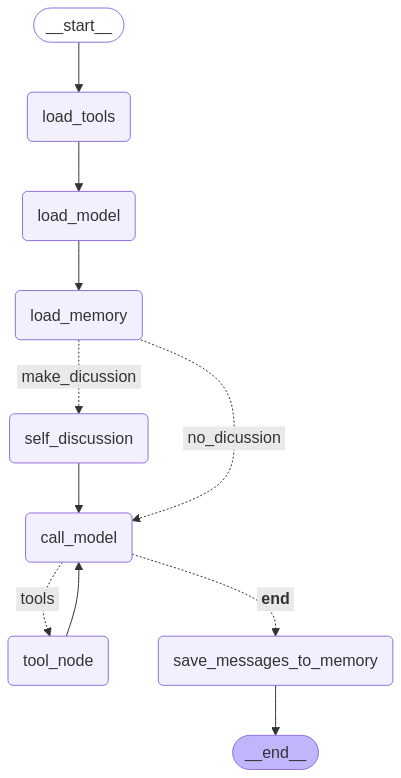
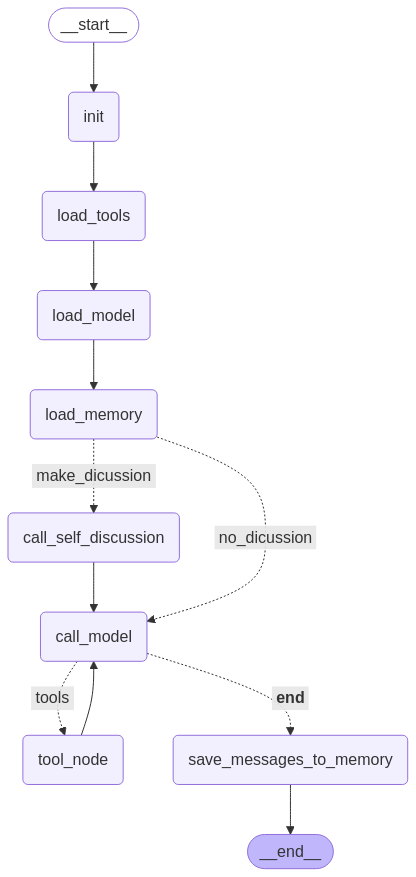
s

diff --git a/workflow_graphs/bujji/workflow.py b/workflow_graphs/bujji/workflow.py
@@ -1,13 +1,14 @@
 from langgraph.graph import StateGraph, START, END
 from langgraph.prebuilt import tools_condition
 from .schemas import WorkFlowState
-from .nodes import load_tools, load_model, load_memory, call_self_discussion, call_model, tool_node, save_messages_to_memory
+from .nodes import init_node, load_tools, load_model, load_memory, call_self_discussion, call_model, tool_node, save_messages_to_memory
 
 
 
 
 workflow = StateGraph(WorkFlowState)
 
+workflow.add_node('init', init_node)
 workflow.add_node('load_tools', load_tools)
 workflow.add_node('load_model', load_model)
 workflow.add_node('load_memory', load_memory)
@@ -16,9 +17,10 @@ workflow.add_node('call_model', call_model)
 workflow.add_node('tool_node', tool_node)
 workflow.add_node('save_messages_to_memory', save_messages_to_memory)
 
-workflow.set_entry_point('load_tools')
+workflow.set_entry_point('init')
 workflow.set_finish_point('save_messages_to_memory')
 
+workflow.add_edge('init', 'load_tools')
 workflow.add_edge('load_tools', 'load_model')
 workflow.add_edge('load_model', 'load_memory')
 workflow.add_edge('call_self_discussion', 'call_model')
@@ -30,8 +32,8 @@ workflow.add_conditional_edges('call_model', tools_condition, {'tools' : 'tool_n
 
 graph = workflow.compile()
 
-# # Visualize your graph
-# graph_png = graph.get_graph(xray=True).draw_mermaid_png()
-# image_file = "WorkFlow Graph.png"
-# with open(image_file, "wb") as file:
-#     file.write(graph_png)
+# Visualize your graph
+graph_png = graph.get_graph(xray=True).draw_mermaid_png()
+image_file = "WorkFlow Graph.png"
+with open(image_file, "wb") as file:
+    file.write(graph_png)

diff --git a/workflow_graphs/bujji/nodes.py b/workflow_graphs/bujji/nodes.py
@@ -18,6 +18,18 @@ def green_log(message: str):
     logging.info(f"{green}{message}{reset}")
 
 
+def init_node(state: WorkFlowState):
+    _verbose = state['_verbose']
+    if _verbose:
+        green_log("🚀 Starting workflow")
+    user_query = HumanMessage(content=state['user_query'])
+    
+    return {
+        'messages' : [user_query],
+        'new_messages' : [user_query],
+    }
+    
+
 def load_tools(state : WorkFlowState):
     _verbose = state['_verbose']
     if _verbose:
@@ -56,13 +68,10 @@ def load_memory(state: WorkFlowState):
     pre_tools = state['pre_tools']
     memory : Memory = Memory.get_memory(conversation_id, user_id, 7000, model, True, False, 'human')
     system_prompt = SystemMessage(content=SYSTEM_PROMPT.format(response_mode = response_mode, pre_tools = pre_tools))
-    user_query = HumanMessage(content=state['user_query'])
     
     memory_messages = [system_prompt, *memory.messages]
     return {
         'memory' : memory,
-        'messages' : [user_query],
-        'new_messages' : [user_query],
         'memory_messages' : memory_messages
     }
     

diff --git a/chats_app/views.py b/chats_app/views.py
@@ -30,11 +30,11 @@ s = {
     }
     
 
-for chunk in graph.stream(s):
-    for node, data in chunk.items():
-        print("="*100)
-        print(f"Node: {node}")
-        messages = data.get('messages', [])
-        if len(messages) > 0:
-            print(messages[-1].content)    
+# for chunk in graph.stream(s):
+#     for node, data in chunk.items():
+#         print("="*100)
+#         print(f"Node: {node}")
+#         messages = data.get('messages', [])
+#         if len(messages) > 0:
+#             print(messages[-1].content)    
 
